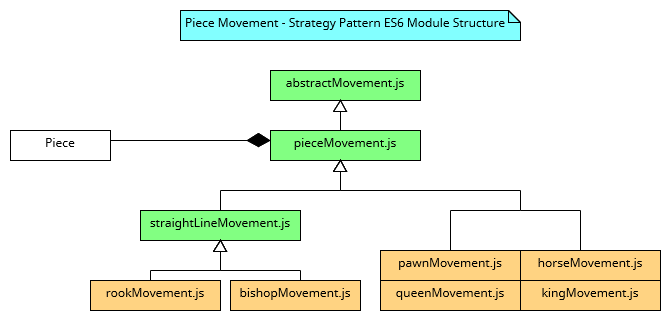
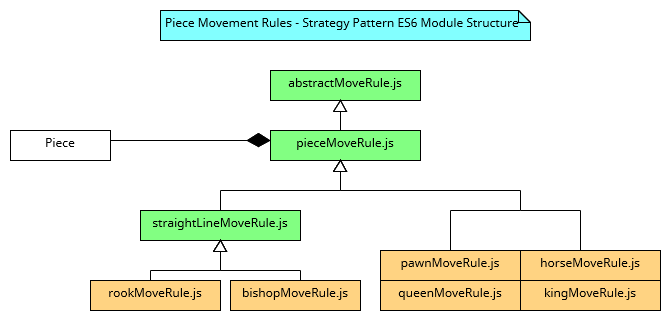
refactor: updated strategy pattern UML diagram

diff --git a/src/backend/moveRule/moveRules.js b/src/backend/moveRule/moveRules.js
@@ -1,0 +1,21 @@
+
+import { getPawnMoveRule } from "./pawnMoveRule.js";
+import { getBishopMoveRule } from "./bishopMoveRule.js";
+import { getRookMoveRule } from "./rookMoveRule.js";
+import { getHorseMoveRule } from "./horseMoveRule.js";
+import { getQueenMoveRule } from "./queenMoveRule.js";
+import { getKingMoveRule } from "./kingMoveRule.js";
+
+let moveRules = {
+    getPawnMoveRule: getPawnMoveRule,
+    getBishopMoveRule: getBishopMoveRule,
+    getRookMoveRule: getRookMoveRule,
+    getHorseMoveRule: getHorseMoveRule,
+    getQueenMoveRule: getQueenMoveRule,
+    getKingMoveRule: getKingMoveRule
+}
+
+export {
+    moveRules
+}
+

diff --git a/src/backend/router/gameRouter.js b/src/backend/router/gameRouter.js
@@ -1,7 +1,7 @@
 import express from 'express';
 import { createGame } from '../main/game.js';
 import { randomPlayer } from '../main/randomPlayer.js';
-import { save, findById } from '../main/gamehistory.js'
+import { save, findById } from '../main/gameHistory.js'
 
 const gameRouter = express.Router();
 

diff --git a/src/backend/piece/piece.js b/src/backend/piece/piece.js
@@ -1,4 +1,4 @@
-import { moveRules } from "../moveRule/MoveRuleEnum.js";
+import { moveRules } from "../moveRule/moveRules.js";
 import { pieceTypes } from './pieceType.js';
 
 function createPiece(name, fullName, color, position) {

diff --git a/src/backend/main/gamehistory.js b/src/backend/main/gamehistory.js
@@ -1,4 +1,3 @@
-
 const games = [];
 
 function save(game) {
